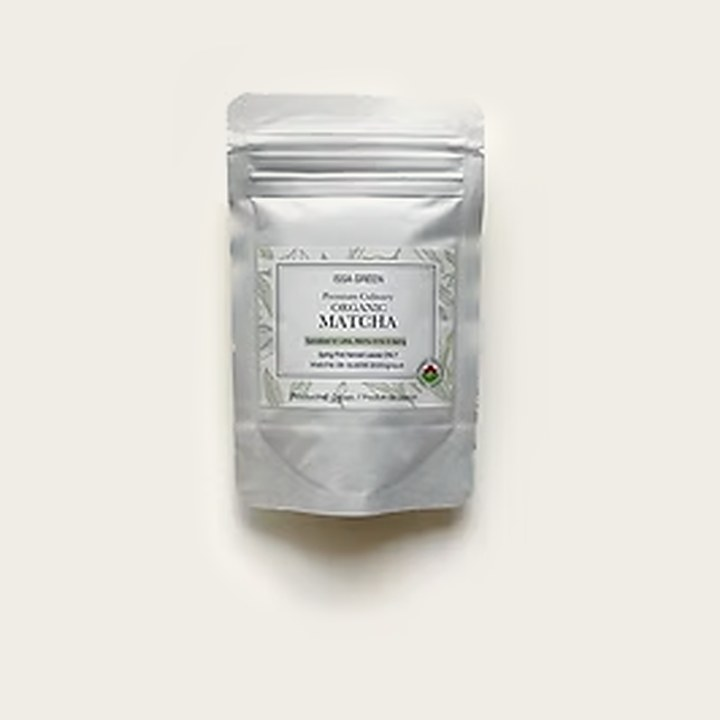
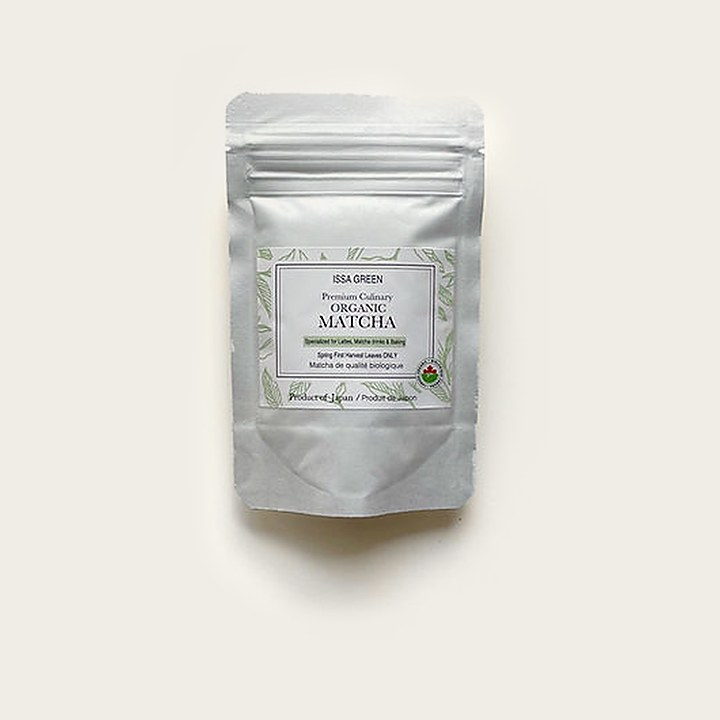
Use full-resolution product photos with hover swap to raw tea; complete Tea Ware product list
Claude-Session: https://claude.ai/code/session_011tAf4HUyAbyNpKv5gT8KtK

diff --git a/shop-tea.html b/shop-tea.html
@@ -997,6 +997,14 @@
     .product-img { aspect-ratio: 1 / 1; margin: -28px -26px 22px; background: #F0EDE6; overflow: hidden; }
     .product-img img { width: 100%; height: 100%; object-fit: cover; transition: transform 0.6s var(--ease); }
     .product-card:hover .product-img img { transform: scale(1.04); }
+    .product-img { position: relative; }
+    .product-img img { position: absolute; inset: 0; }
+    .product-img .alt { opacity: 0; transition: opacity 0.45s var(--ease); }
+    .product-img.placeholder { display: flex; align-items: center; justify-content: center; color: var(--light); font-size: 11px; letter-spacing: 0.14em; text-transform: uppercase; background: #F0EDE6; }
+    @media (hover: hover) {
+      .product-card:hover .product-img .alt { opacity: 1; }
+      .product-card:hover .product-img img:not(.alt) { transform: none; }
+    }
     .product-badge {
       position: absolute; top: 16px; left: 16px; z-index: 1; font-size: 10px; letter-spacing: 0.14em; text-transform: uppercase;
       color: var(--sage); border: 1px solid var(--sage); background: rgba(250,250,247,0.92); padding: 3px 10px;
@@ -1095,26 +1103,26 @@
       </div>
       <div class="product-grid">
           <div class="product-card reveal">
-            <div class="product-img"><img src="/images/shop/fukamushi-sencha-bags.jpg" alt="Fukamushi sencha — Tea bags" loading="lazy"></div>
+            <div class="product-img"><img src="/images/shop/fukamushi-sencha-bags.jpg" alt="Fukamushi sencha — Tea bags" loading="lazy"><img class="alt" src="/images/shop/fukamushi-sencha-bags-hover.jpg" alt="" loading="lazy"></div>
             <span class="product-badge">Best seller</span>
             <p class="product-name">Fukamushi sencha — Tea bags</p>
             <p class="product-price">$22.00</p><p class="product-tax">Excluding GST/HST</p>
             <button class="add-btn" type="button">Add to cart</button>
           </div>
           <div class="product-card reveal">
-            <div class="product-img"><img src="/images/shop/fukamushi-sencha-80g.jpg" alt="Fukamushi sencha — Loose tea 80g" loading="lazy"></div>
+            <div class="product-img"><img src="/images/shop/fukamushi-sencha-80g.jpg" alt="Fukamushi sencha — Loose tea 80g" loading="lazy"><img class="alt" src="/images/shop/fukamushi-sencha-80g-hover.jpg" alt="" loading="lazy"></div>
             <p class="product-name">Fukamushi sencha — Loose tea 80g</p>
             <p class="product-price">$26.50</p><p class="product-tax">Excluding GST/HST</p>
             <button class="add-btn" type="button">Add to cart</button>
           </div>
           <div class="product-card reveal">
-            <div class="product-img"><img src="/images/shop/premium-sencha-80g.jpg" alt="Premium sencha — Loose tea 80g" loading="lazy"></div>
+            <div class="product-img"><img src="/images/shop/premium-sencha-80g.jpg" alt="Premium sencha — Loose tea 80g" loading="lazy"><img class="alt" src="/images/shop/premium-sencha-80g-hover.jpg" alt="" loading="lazy"></div>
             <p class="product-name">Premium sencha — Loose tea 80g</p>
             <p class="product-price">$24.50</p><p class="product-tax">Excluding GST/HST</p>
             <button class="add-btn" type="button">Add to cart</button>
           </div>
           <div class="product-card reveal">
-            <div class="product-img"><img src="/images/shop/gyokuro-30g.jpg" alt="Gyokuro — Loose tea 30g" loading="lazy"></div>
+            <div class="product-img"><img src="/images/shop/gyokuro-30g.jpg" alt="Gyokuro — Loose tea 30g" loading="lazy"><img class="alt" src="/images/shop/gyokuro-30g-hover.jpg" alt="" loading="lazy"></div>
             <span class="product-badge muted">Limited</span>
             <p class="product-name">Gyokuro — Loose tea 30g</p>
             <p class="product-price"><span class="oos">Out of stock</span></p>
@@ -1132,14 +1140,14 @@
       </div>
       <div class="product-grid">
           <div class="product-card reveal">
-            <div class="product-img"><img src="/images/shop/fukamushi-genmaicha-80g.jpg" alt="Fukamushi Genmaicha — Loose tea 80g" loading="lazy"></div>
+            <div class="product-img"><img src="/images/shop/fukamushi-genmaicha-80g.jpg" alt="Fukamushi Genmaicha — Loose tea 80g" loading="lazy"><img class="alt" src="/images/shop/fukamushi-genmaicha-80g-hover.jpg" alt="" loading="lazy"></div>
             <span class="product-badge">Best seller</span>
             <p class="product-name">Fukamushi Genmaicha — Loose tea 80g</p>
             <p class="product-price">$19.80</p><p class="product-tax">Excluding GST/HST</p>
             <button class="add-btn" type="button">Add to cart</button>
           </div>
           <div class="product-card reveal">
-            <div class="product-img"><img src="/images/shop/fukamushi-genmaicha-bags.jpg" alt="Fukamushi Genmaicha — Tea bags" loading="lazy"></div>
+            <div class="product-img"><img src="/images/shop/fukamushi-genmaicha-bags.jpg" alt="Fukamushi Genmaicha — Tea bags" loading="lazy"><img class="alt" src="/images/shop/fukamushi-genmaicha-bags-hover.jpg" alt="" loading="lazy"></div>
             <p class="product-name">Fukamushi Genmaicha — Tea bags</p>
             <p class="product-price">$22.00</p><p class="product-tax">Excluding GST/HST</p>
             <button class="add-btn" type="button">Add to cart</button>
@@ -1156,27 +1164,27 @@
       </div>
       <div class="product-grid">
           <div class="product-card reveal">
-            <div class="product-img"><img src="/images/shop/ceremonial-matcha-30g.jpg" alt="Ceremonial Matcha 30g — for traditional way and latte" loading="lazy"></div>
+            <div class="product-img"><img src="/images/shop/ceremonial-matcha-30g.jpg" alt="Ceremonial Matcha 30g — for traditional way and latte" loading="lazy"><img class="alt" src="/images/shop/ceremonial-matcha-30g-hover.jpg" alt="" loading="lazy"></div>
             <span class="product-badge">Popular</span>
             <p class="product-name">Ceremonial Matcha 30g — for traditional way and latte</p>
             <p class="product-price"><s>$29.50</s><span class="sale">$25.00</span></p><p class="product-tax">Excluding GST/HST</p>
             <button class="add-btn" type="button">Add to cart</button>
           </div>
           <div class="product-card reveal">
-            <div class="product-img"><img src="/images/shop/premium-matcha-30g.jpg" alt="Premium Matcha 30g — for traditional way" loading="lazy"></div>
+            <div class="product-img"><img src="/images/shop/premium-matcha-30g.jpg" alt="Premium Matcha 30g — for traditional way" loading="lazy"><img class="alt" src="/images/shop/premium-matcha-30g-hover.jpg" alt="" loading="lazy"></div>
             <p class="product-name">Premium Matcha 30g — for traditional way</p>
             <p class="product-price"><s>$36.00</s><span class="sale">$30.00</span></p><p class="product-tax">Excluding GST/HST</p>
             <button class="add-btn" type="button">Add to cart</button>
           </div>
           <div class="product-card reveal">
-            <div class="product-img"><img src="/images/shop/culinary-matcha-100g.jpg" alt="Premium Culinary Matcha 100g" loading="lazy"></div>
+            <div class="product-img"><img src="/images/shop/culinary-matcha-100g.jpg" alt="Premium Culinary Matcha 100g" loading="lazy"><img class="alt" src="/images/shop/culinary-matcha-100g-hover.jpg" alt="" loading="lazy"></div>
             <span class="product-badge">Value pack</span>
             <p class="product-name">Premium Culinary Matcha 100g</p>
             <p class="product-price">$56.00</p><p class="product-tax">Excluding GST/HST</p>
             <button class="add-btn" type="button">Add to cart</button>
           </div>
           <div class="product-card reveal">
-            <div class="product-img"><img src="/images/shop/culinary-matcha-20g.jpg" alt="Premium Culinary Matcha 20g — Sample bag" loading="lazy"></div>
+            <div class="product-img"><img src="/images/shop/culinary-matcha-20g.jpg" alt="Premium Culinary Matcha 20g — Sample bag" loading="lazy"><img class="alt" src="/images/shop/culinary-matcha-20g-hover.jpg" alt="" loading="lazy"></div>
             <span class="product-badge">Sample size</span>
             <p class="product-name">Premium Culinary Matcha 20g — Sample bag</p>
             <p class="product-price">$22.00</p><p class="product-tax">Excluding GST/HST</p>

diff --git a/tea-ware.html b/tea-ware.html
@@ -997,6 +997,14 @@
     .product-img { aspect-ratio: 1 / 1; margin: -28px -26px 22px; background: #F0EDE6; overflow: hidden; }
     .product-img img { width: 100%; height: 100%; object-fit: cover; transition: transform 0.6s var(--ease); }
     .product-card:hover .product-img img { transform: scale(1.04); }
+    .product-img { position: relative; }
+    .product-img img { position: absolute; inset: 0; }
+    .product-img .alt { opacity: 0; transition: opacity 0.45s var(--ease); }
+    .product-img.placeholder { display: flex; align-items: center; justify-content: center; color: var(--light); font-size: 11px; letter-spacing: 0.14em; text-transform: uppercase; background: #F0EDE6; }
+    @media (hover: hover) {
+      .product-card:hover .product-img .alt { opacity: 1; }
+      .product-card:hover .product-img img:not(.alt) { transform: none; }
+    }
     .product-badge {
       position: absolute; top: 16px; left: 16px; z-index: 1; font-size: 10px; letter-spacing: 0.14em; text-transform: uppercase;
       color: var(--sage); border: 1px solid var(--sage); background: rgba(250,250,247,0.92); padding: 3px 10px;
@@ -1094,13 +1102,13 @@
       </div>
       <div class="product-grid">
           <div class="product-card reveal">
-            <div class="product-img"><img src="/images/tea-ware/kazuho-whisk.jpg" alt="Kazuho Whisk" loading="lazy"></div>
+            <div class="product-img"><img src="/images/tea-ware/kazuho-whisk.jpg" alt="Kazuho Whisk" loading="lazy"><img class="alt" src="/images/tea-ware/kazuho-whisk-hover.jpg" alt="" loading="lazy"></div>
             <p class="product-name">Kazuho Whisk</p>
             <p class="product-price"><span class="oos">Out of stock</span></p>
             <button class="add-btn" type="button" disabled>Out of stock</button>
           </div>
           <div class="product-card reveal">
-            <div class="product-img"><img src="/images/tea-ware/kazuho-green-gradation.jpg" alt="Kazuho Green gradation" loading="lazy"></div>
+            <div class="product-img"><img src="/images/tea-ware/kazuho-green-gradation.jpg" alt="Kazuho Green gradation" loading="lazy"><img class="alt" src="/images/tea-ware/kazuho-green-gradation-hover.jpg" alt="" loading="lazy"></div>
             <p class="product-name">Kazuho Green gradation</p>
             <p class="product-price">$72.00</p><p class="product-tax">Excluding GST/HST</p>
             <button class="add-btn" type="button">Add to cart</button>
@@ -1117,7 +1125,7 @@
       </div>
       <div class="product-grid">
           <div class="product-card reveal">
-            <div class="product-img"><img src="/images/tea-ware/80-prongs-whisk.jpg" alt="80 prongs Whisk" loading="lazy"></div>
+            <div class="product-img"><img src="/images/tea-ware/80-prongs-whisk.jpg" alt="80 prongs Whisk" loading="lazy"><img class="alt" src="/images/tea-ware/80-prongs-whisk-hover.png" alt="" loading="lazy"></div>
             <p class="product-name">80 prongs Whisk</p>
             <p class="product-price">$68.00</p><p class="product-tax">Excluding GST/HST</p>
             <button class="add-btn" type="button">Add to cart</button>
@@ -1132,7 +1140,14 @@
         <div><h2>Chasen 100 prongs</h2><p class="cat-sub">Matcha whisk</p></div>
         <p class="cat-desc">100 prongs chasen facilitate making fine foam quickly. However, handle is bigger than other models, and requires a bit of experience. Good for enthusiastic matcha fans to experts.</p>
       </div>
-      <p class="cat-empty">Products coming soon.</p>
+      <div class="product-grid">
+          <div class="product-card reveal">
+            <div class="product-img placeholder"><span>Photo coming soon</span></div>
+            <p class="product-name">100 prongs Black &amp; White</p>
+            <p class="product-price"><span class="oos">Out of stock</span></p>
+            <button class="add-btn" type="button" disabled>Out of stock</button>
+          </div>
+      </div>
     </div>
   </section>
 
@@ -1142,7 +1157,14 @@
         <div><h2>Chasen Shin Black Bamboo</h2><p class="cat-sub">Matcha whisk</p></div>
         <p class="cat-desc">This shin chasen is made from iconic black bamboo, and modest straight shape gives us minimalistic impression. Good for enthusiastic matcha fans to experts.</p>
       </div>
-      <p class="cat-empty">Products coming soon.</p>
+      <div class="product-grid">
+          <div class="product-card reveal">
+            <div class="product-img placeholder"><span>Photo coming soon</span></div>
+            <p class="product-name">Black bamboo Shin Whisk</p>
+            <p class="product-price">$98.00</p><p class="product-tax">Excluding GST/HST</p>
+            <button class="add-btn" type="button">Add to cart</button>
+          </div>
+      </div>
     </div>
   </section>
 
@@ -1152,7 +1174,14 @@
         <div><h2>Resin Chasen</h2><p class="cat-sub">Resin matcha whisk</p></div>
         <p class="cat-desc">This durable low-maintenance whisk is the perfect option for matcha latte.</p>
       </div>
-      <p class="cat-empty">Products coming soon.</p>
+      <div class="product-grid">
+          <div class="product-card reveal">
+            <div class="product-img placeholder"><span>Photo coming soon</span></div>
+            <p class="product-name">Resin Whisk</p>
+            <p class="product-price">$48.00</p><p class="product-tax">Excluding GST/HST</p>
+            <button class="add-btn" type="button">Add to cart</button>
+          </div>
+      </div>
     </div>
   </section>
 
@@ -1162,7 +1191,20 @@
         <div><h2>Chashaku</h2><p class="cat-sub">Matcha scoop</p></div>
         <p class="cat-desc">Is chashaku just for making an atmosphere? Yes, but it is an important piece for making your tea time authentic.</p>
       </div>
-      <p class="cat-empty">Products coming soon.</p>
+      <div class="product-grid">
+          <div class="product-card reveal">
+            <div class="product-img placeholder"><span>Photo coming soon</span></div>
+            <p class="product-name">Chashaku (Matcha scoop) Soot colored bamboo</p>
+            <p class="product-price">$48.00</p><p class="product-tax">Excluding GST/HST</p>
+            <button class="add-btn" type="button">Add to cart</button>
+          </div>
+          <div class="product-card reveal">
+            <div class="product-img placeholder"><span>Photo coming soon</span></div>
+            <p class="product-name">Chashaku (Matcha scoop) White bamboo</p>
+            <p class="product-price">$32.00</p><p class="product-tax">Excluding GST/HST</p>
+            <button class="add-btn" type="button">Add to cart</button>
+          </div>
+      </div>
     </div>
   </section>
 
@@ -1171,7 +1213,20 @@
       <div class="cat-head reveal">
         <div><h2>Chasen stand</h2><p class="cat-sub">Whisk holder</p></div>
       </div>
-      <p class="cat-empty">Products coming soon.</p>
+      <div class="product-grid">
+          <div class="product-card reveal">
+            <div class="product-img placeholder"><span>Photo coming soon</span></div>
+            <p class="product-name">Whisk stand — White</p>
+            <p class="product-price">$18.00</p><p class="product-tax">Excluding GST/HST</p>
+            <button class="add-btn" type="button">Add to cart</button>
+          </div>
+          <div class="product-card reveal">
+            <div class="product-img placeholder"><span>Photo coming soon</span></div>
+            <p class="product-name">Whisk stand — Black</p>
+            <p class="product-price">$18.00</p><p class="product-tax">Excluding GST/HST</p>
+            <button class="add-btn" type="button">Add to cart</button>
+          </div>
+      </div>
     </div>
   </section>
 
